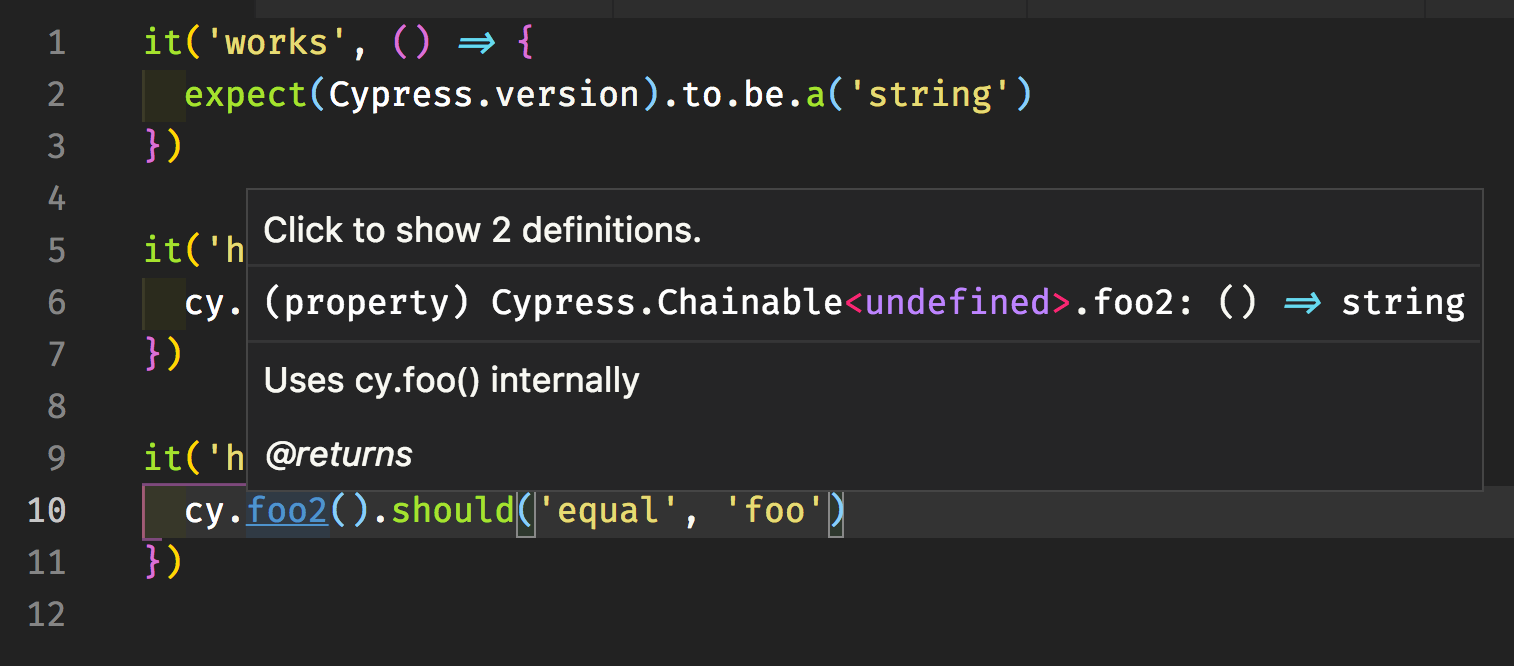
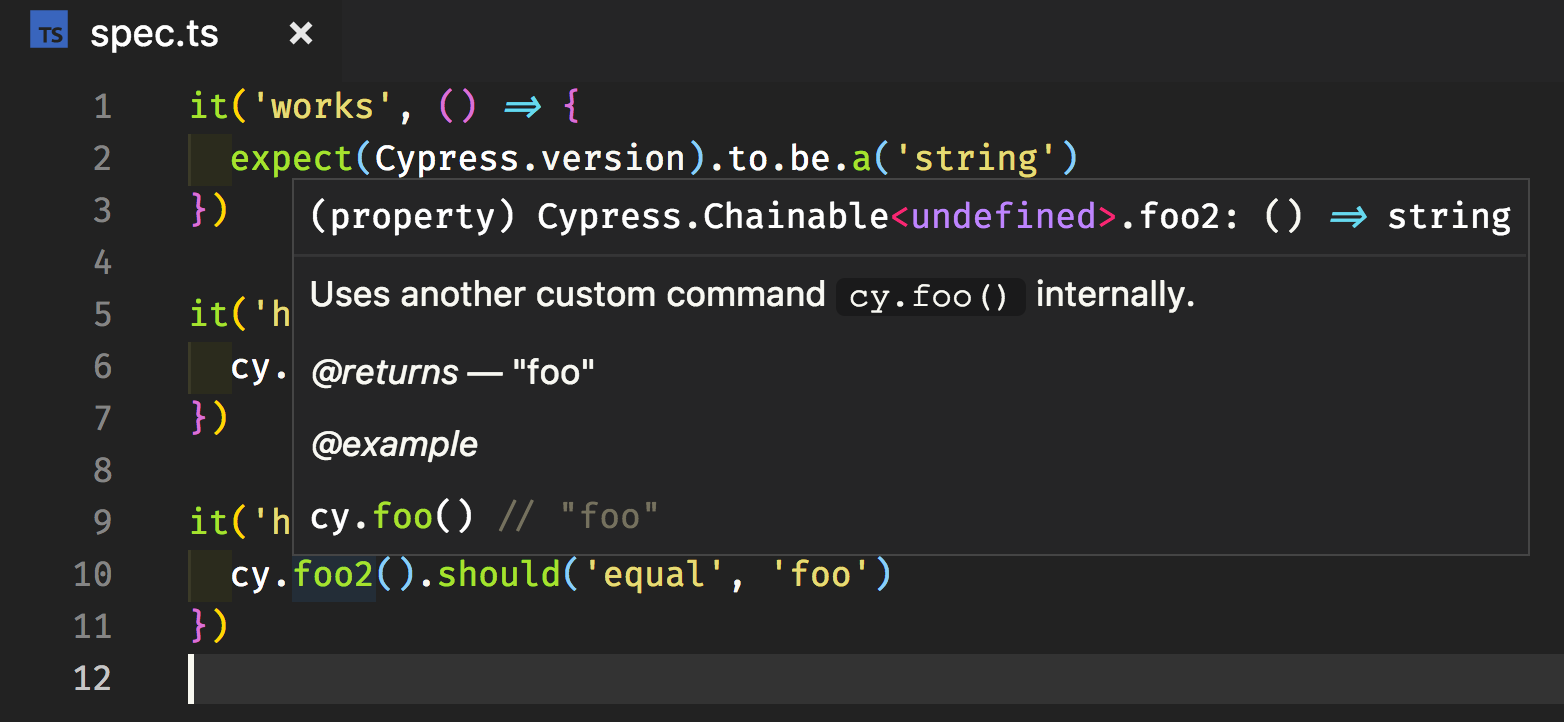
better intellisense jsdoc

diff --git a/cypress/support/commands.ts b/cypress/support/commands.ts
@@ -28,9 +28,10 @@ export function foo() {
 }
 
 /**
- * Uses cy.foo() internally
+ * Uses another custom command `cy.foo()` internally.
  *
- * @returns
+ * @returns {string} "foo"
+ * @example cy.foo() // "foo"
  */
 export function foo2() {
   return cy.foo()
